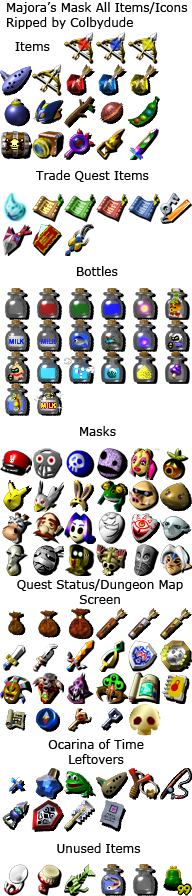
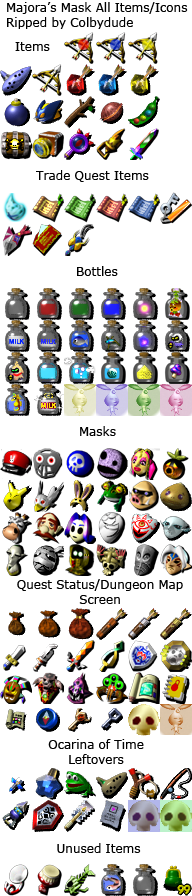
Added almost all of the code needed for the Item Display to function. All thats really left is a lot of data entry.

Changed region(s): [[0.3125, 0.4062, 1.0, 0.4688], [0.6562, 0.875, 1.0, 0.9375], [0.6562, 0.7812, 1.0, 0.8438]]

diff --git a/Forms/ItemDisplay.cs b/Forms/ItemDisplay.cs
@@ -1,6 +1,9 @@
-using System;
+using MMR_Tracker_V2;
+using System;
 using System.Collections.Generic;
 using System.Drawing;
+using System.Drawing.Imaging;
+using System.Linq;
 using System.Windows.Forms;
 
 namespace MMR_Tracker.Forms
@@ -11,9 +14,16 @@ namespace MMR_Tracker.Forms
         public ItemDisplay()
         {
             InitializeComponent();
+            MainInterface.LocationChecked += MainInterface_LocationChecked;
+        }
+
+        private void MainInterface_LocationChecked(object sender, EventArgs e)
+        {
+            DisplayImages();
         }
         public void SetItemImages()
         {
+            Images.Clear();
             //Equip Items
             Images.Add("Ocarina", GetImage(0, 2));
             Images.Add("Bow", GetImage(1, 2));
@@ -99,19 +109,139 @@ namespace MMR_Tracker.Forms
             Images.Add("Compass", GetImage(1, 22));
             Images.Add("BossKey", GetImage(2, 22));
             Images.Add("SmallKey", GetImage(3, 22));
+            //Fairies/Skulls
             Images.Add("SkullToken", GetImage(4, 22));
+            Images.Add("OceanSkullToken", GetImage(4, 25));
+            Images.Add("SwampSkullToken", GetImage(5, 25));
+            Images.Add("ClockTownFairy", GetImage(5, 22));
+            Images.Add("StoneTowerFairy", GetImage(2, 12));
+            Images.Add("GreatBayFairy", GetImage(3, 12));
+            Images.Add("SnowheadFairy", GetImage(4, 12));
+            Images.Add("WoodfallFairy", GetImage(5, 12));
 
         }
+        public void DisplayImages()
+        {
+            Controls.Clear();
+
+            int Spacing = 48;
+            Dictionary<string, string> ProgressiveItem;
+
+            DrawItem("Ocarina", Spacing, "Ocarina of Time", 0, 0);
+            ProgressiveItem = new Dictionary<string, string> { { "Hero's Bow", "30" }, { "Town Archery Quiver (40)", "40" }, { "Swamp Archery Quiver (50)", "50" } };
+            DrawProgressiveItem("Bow", Spacing, ProgressiveItem, 0, 1, Brushes.LimeGreen);
+            DrawItem("FireArrow", Spacing, "Fire Arrow", 0, 2);
+            DrawItem("IceArrow", Spacing, "Ice Arrow", 0, 3);
+            DrawItem("LightArrow", Spacing, "Light Arrow", 0, 4);
+            ProgressiveItem = new Dictionary<string, string> { { "Bomb Bag (20)", "20" }, { "Town Bomb Bag (30)", "30" }, { "Mountain Bomb Bag (40)", "40" } };
+            DrawProgressiveItem("Bombs", Spacing, ProgressiveItem, 0, 5, Brushes.LimeGreen);
+
+
+
+            //SwampStrayFairy
+            DrawCountableItem("WoodfallFairy", Spacing, "Woodfall Stray Fairy", 12, 0, Brushes.LimeGreen);
+            DrawCountableItem("SwampSkullToken", Spacing, "Swamp Skulltula Spirit", 12, 1, Brushes.Black);
+
+        }
+
+        public void DrawItem(string Image, int Spacing, string Logicname, int row, int colomn)
+        {
+            var CurentImage = Images[Image];
+            LogicObjects.LogicEntry Entry = LogicObjects.MainTrackerInstance.Logic.Find(x => x.DictionaryName == Logicname);
+            if (Entry != null && !Entry.Aquired && !Entry.StartingItem() && !(Entry.Unrandomized() && Entry.Available)) { CurentImage = new Bitmap(GreyImage(CurentImage)); }
+            var PB = new PictureBox
+            {
+                BorderStyle = BorderStyle.Fixed3D,
+                Image = CurentImage,
+                Width = Spacing,
+                Height = Spacing,
+                SizeMode = PictureBoxSizeMode.StretchImage,
+                Location = PostionItem(row, colomn, Spacing),
+                BackColor = Color.Transparent
+            };
+            Controls.Add(PB);
+        }
+        public void DrawProgressiveItem(string Image, int Spacing, Dictionary<string,string> Logicnames, int row, int colomn, Brush TextColor)
+        {
+            var CurentImage = Images[Image];
+            string CountNumber = "";
+            foreach(KeyValuePair<string,string> i in Logicnames)
+            {
+                LogicObjects.LogicEntry Entry = LogicObjects.MainTrackerInstance.Logic.Find(x => x.DictionaryName == i.Key);
+                if (Entry != null && (Entry.Aquired || Entry.StartingItem() || (Entry.Unrandomized() && Entry.Available))) { CountNumber = i.Value; }
+            }
+            if (CountNumber == "") { CurentImage = new Bitmap(GreyImage(CurentImage)); }
+            var PB = new PictureBox
+            {
+                BorderStyle = BorderStyle.Fixed3D,
+                Image = CurentImage,
+                Width = Spacing,
+                Height = Spacing,
+                SizeMode = PictureBoxSizeMode.StretchImage,
+                Location = PostionItem(row, colomn, Spacing),
+                BackColor = Color.Transparent
+            };
+            Controls.Add(PB);
+            var newFont = new Font("Arial", 12, FontStyle.Bold);
+            PB.Paint += new PaintEventHandler((sender, e) =>
+            {
+                e.Graphics.TextRenderingHint = System.Drawing.Text.TextRenderingHint.AntiAlias;
+                e.Graphics.DrawString(CountNumber, newFont, TextColor, 0, 0);
+            });
+        }
+        public void DrawCountableItem(string Image, int Spacing, string ItemName, int row, int colomn, Brush TextColor)
+        {
+            var CurentImage = Images[Image];
+            int CountNumber = LogicObjects.MainTrackerInstance.Logic.Where(x => x.ItemName == ItemName && (x.Aquired || x.StartingItem() || (x.Unrandomized() && x.Available))).Count();
+            if (CountNumber < 1) { CurentImage = new Bitmap(GreyImage(CurentImage)); }
+            var StringCountNumber = (CountNumber < 1) ? "" : CountNumber.ToString();
+            var PB = new PictureBox
+            {
+                BorderStyle = BorderStyle.Fixed3D,
+                Image = CurentImage,
+                Width = Spacing,
+                Height = Spacing,
+                SizeMode = PictureBoxSizeMode.StretchImage,
+                Location = PostionItem(row, colomn, Spacing),
+                BackColor = Color.Transparent
+            };
+            Controls.Add(PB);
+            var newFont = new Font("Arial", 12, FontStyle.Bold);
+            PB.Paint += new PaintEventHandler((sender, e) =>
+            {
+                e.Graphics.TextRenderingHint = System.Drawing.Text.TextRenderingHint.AntiAlias;
+                e.Graphics.DrawString(StringCountNumber, newFont, TextColor, 0, 0);
+            });
+        }
+
         public static Bitmap GetImage(int Column, int Row)
         {
             Bitmap source = new Bitmap(@"Recources\Nintendo 64 - The Legend of Zelda Majoras Mask - Item Icons.png");
             return source.Clone(new System.Drawing.Rectangle(Column * 32, Row * 32, 32, 32), source.PixelFormat);
         }
+        public Point PostionItem(int Row, int Columb, int Spacing)
+        {
+            return new Point(Columb * Spacing, Row * Spacing);
+        }
+        public Bitmap GreyImage(Bitmap image)
+        {
+            Bitmap grayScale = new Bitmap(image.Width, image.Height);
 
+            for (Int32 y = 0; y < grayScale.Height; y++)
+                for (Int32 x = 0; x < grayScale.Width; x++)
+                {
+                    Color c = image.GetPixel(x, y);
+
+                    Int32 gs = (Int32)(c.R * 0.3 + c.G * 0.59 + c.B * 0.11);
+
+                    grayScale.SetPixel(x, y, Color.FromArgb(gs, gs, gs));
+                }
+            return grayScale;
+        }
         private void ItemDisplay_Load(object sender, EventArgs e)
         {
             SetItemImages();
-
+            DisplayImages();
         }
     }
 }

diff --git a/Forms/ItemDisplay.Designer.cs b/Forms/ItemDisplay.Designer.cs
@@ -28,13 +28,16 @@
         /// </summary>
         private void InitializeComponent()
         {
+            System.ComponentModel.ComponentResourceManager resources = new System.ComponentModel.ComponentResourceManager(typeof(ItemDisplay));
             this.SuspendLayout();
             // 
             // ItemDisplay
             // 
             this.AutoScaleDimensions = new System.Drawing.SizeF(6F, 13F);
             this.AutoScaleMode = System.Windows.Forms.AutoScaleMode.Font;
-            this.ClientSize = new System.Drawing.Size(249, 450);
+            this.BackgroundImage = ((System.Drawing.Image)(resources.GetObject("$this.BackgroundImage")));
+            this.BackgroundImageLayout = System.Windows.Forms.ImageLayout.Stretch;
+            this.ClientSize = new System.Drawing.Size(240, 473);
             this.Name = "ItemDisplay";
             this.Text = "ItemDisplay";
             this.Load += new System.EventHandler(this.ItemDisplay_Load);
